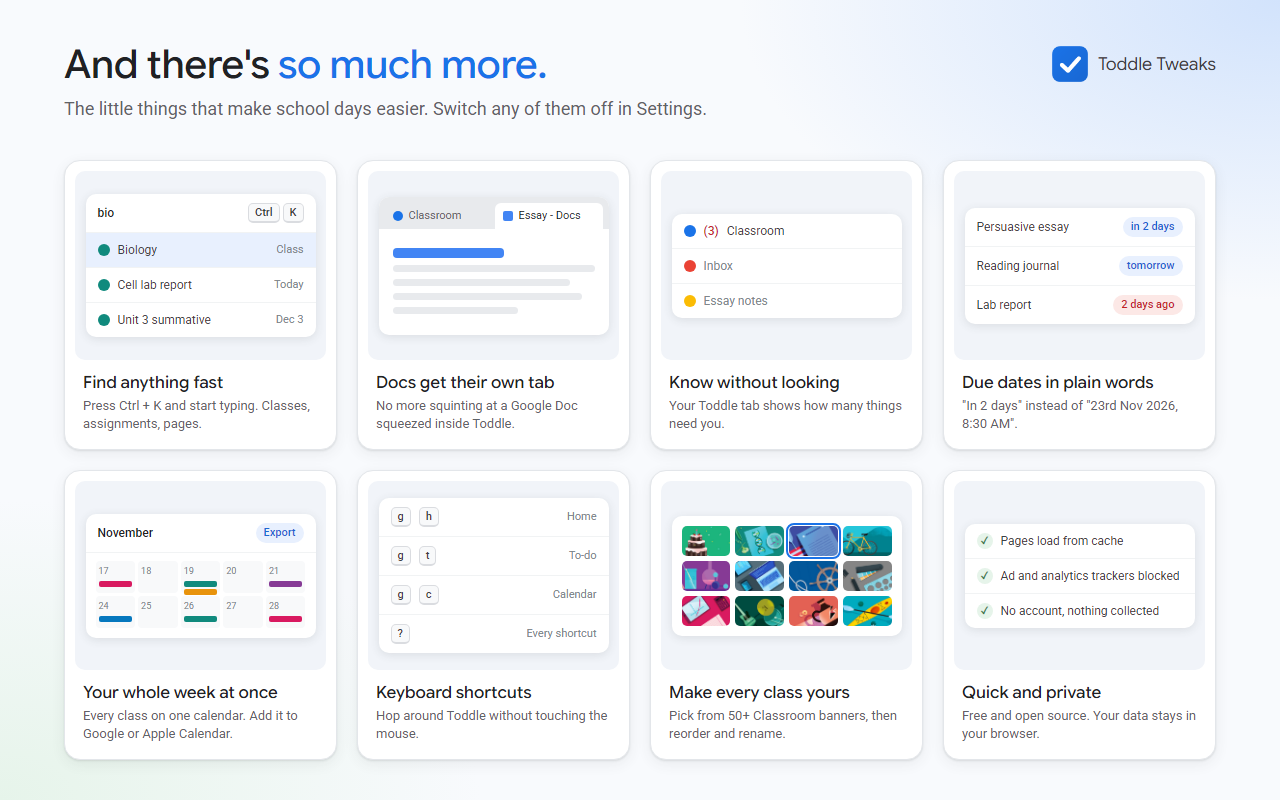
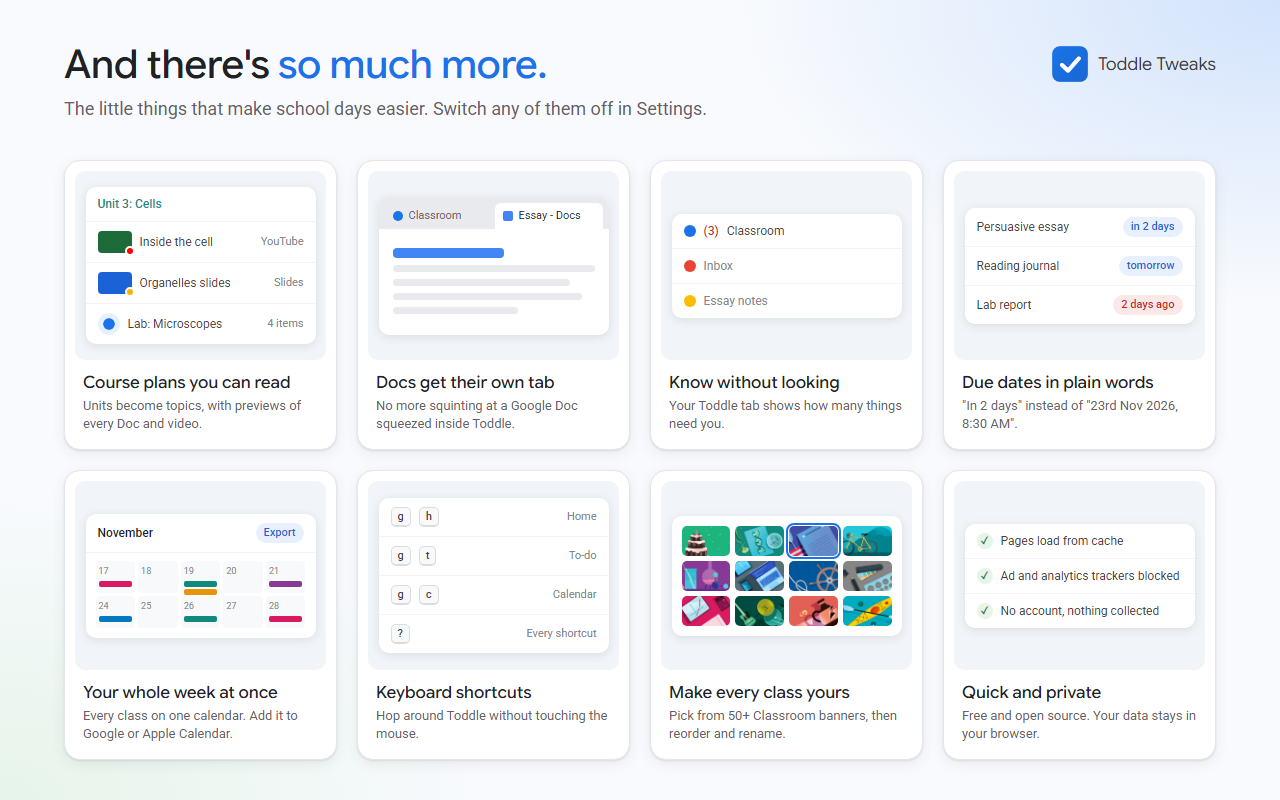
Store images: before/after first, class page and Ctrl+K slides
Drop the duplicate home slide and the course plan slide; course plans move into the 'so much more' grid. Before/after labels no longer cover the screens.

Changed region(s): [[0.0625, 0.25, 0.25, 0.4375], [0.0625, 0.4688, 0.25, 0.5625], [0.1875, 0.25, 0.25, 0.3125]]

diff --git a/store/promo/more.html b/store/promo/more.html
@@ -54,6 +54,10 @@
     .th { display: grid; grid-template-columns: repeat(4, 1fr); gap: 5px; padding: 10px; }
     .th span { height: 30px; border-radius: 5px; background-size: cover; background-position: right center; }
     .th span.sel { outline: 2px solid #1a73e8; outline-offset: 1px; }
+    .vid { width: 34px; height: 22px; border-radius: 4px; background: #1e6b3a; position: relative; flex: none; }
+    .vid i { position: absolute; right: -3px; bottom: -3px; width: 10px; height: 10px; border-radius: 50%; background: #ff0000; border: 2px solid #fff; }
+    .vid.sl { background: #1a62d6; }
+    .vid.sl i { background: #f4b400; }
     .ok { width: 16px; height: 16px; border-radius: 50%; background: #e6f4ea; color: #137333; font: 700 10px/16px Roboto; text-align: center; flex: none; }
   </style>
 </head>
@@ -69,15 +73,15 @@
   <div class="grid">
     <div class="card">
       <div class="demo"><div class="panel">
-        <div class="head">bio<span class="r"><kbd>Ctrl</kbd><kbd>K</kbd></span></div>
-        <div class="row sel"><span class="dot" style="background:#108a7d"></span>Biology<small>Class</small></div>
-        <div class="row"><span class="dot" style="background:#108a7d"></span>Cell lab report<small>Today</small></div>
-        <div class="row"><span class="dot" style="background:#108a7d"></span>Unit 3 summative<small>Dec 3</small></div>
+        <div class="head" style="color:#108a7d">Unit 3: Cells</div>
+        <div class="row"><span class="vid"><i></i></span>Inside the cell<small>YouTube</small></div>
+        <div class="row"><span class="vid sl"><i></i></span>Organelles slides<small>Slides</small></div>
+        <div class="row"><span class="dot" style="background:#e8f0fe;width:22px;height:22px;border:5px solid #e8f0fe;box-shadow:inset 0 0 0 6px #1a73e8"></span>Lab: Microscopes<small>4 items</small></div>
       </div></div>
-      <div class="txt"><b>Find anything fast</b><span>Press Ctrl + K and start typing. Classes, assignments, pages.</span></div>
+      <div class="txt"><b>Course plans you can read</b><span>Units become topics, with previews of every Doc and video.</span></div>
     </div>
 
-    <div class="card">
+        <div class="card">
       <div class="demo"><div class="panel">
         <div class="tabs"><span class="tab"><span class="dot" style="background:#1a73e8;width:10px;height:10px"></span>Classroom</span><span class="tab on"><span class="sq" style="background:#4285f4"></span>Essay - Docs</span></div>
         <div class="page"><i class="t"></i><i></i><i style="width:88%"></i><i style="width:94%"></i><i style="width:62%"></i></div>

diff --git a/store/promo/compare.html b/store/promo/compare.html
@@ -53,8 +53,8 @@
 
     /* ----- labels + arrow ----- */
     .lab { position: absolute; padding: 8px 16px; border-radius: 18px; font: 500 14px "Google Sans Flex", Roboto; box-shadow: 0 2px 8px rgba(0,0,0,.14); z-index: 3; }
-    .lab.b { left: 60px; top: 136px; background: #fff; color: #5f6368; }
-    .lab.a { left: 600px; top: 120px; background: #1a73e8; color: #fff; }
+    .lab.b { left: 300px; top: 138px; background: #fff; color: #5f6368; }
+    .lab.a { left: 840px; top: 122px; background: #1a73e8; color: #fff; }
     .arrow { position: absolute; left: 548px; top: 430px; width: 64px; height: 64px; border-radius: 50%; background: #fff; z-index: 4;
       box-shadow: 0 6px 18px rgba(0,0,0,.2); display: flex; align-items: center; justify-content: center; }
     .arrow svg { width: 34px; height: 34px; fill: #1a73e8; }
